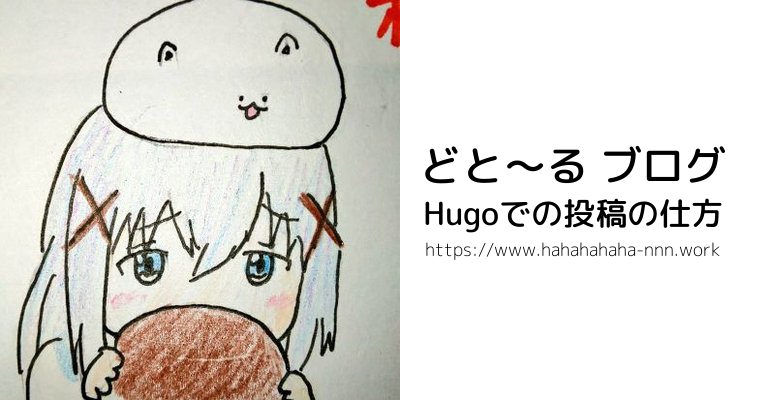
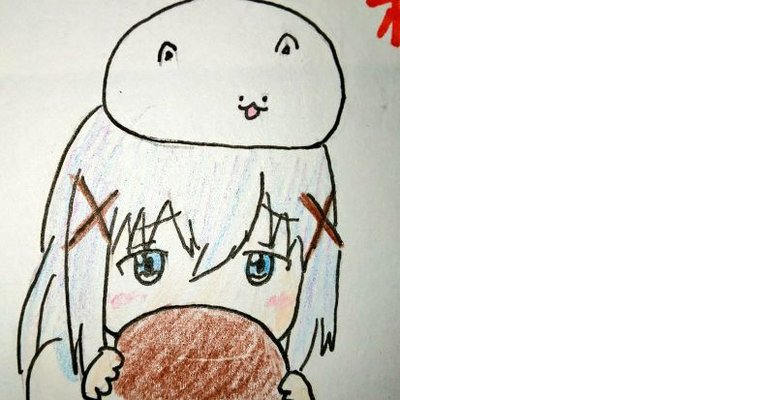
#32 一応、meta画像生成できた。あとは、記事文中へ記載。

Changed region(s): [[0.5419, 0.36, 0.9634, 0.66]]

diff --git a/python/make-card-pic.py b/python/make-card-pic.py
@@ -7,60 +7,99 @@
 # http://kamiya.tech/blog/draw-font/
 # PIL（Python Imaging Library）を使って画像ファイルを作成する。(Qiita)
 # https://qiita.com/suto3/items/5181b4a3b9ebc206f579
+# 同一要素の削除
+# https://ja.stackoverflow.com/questions/21070/Pythonで1次元のリストを比較し-同一の要素の削除について
+# Pythonでの文字列抽出
+# https://note.nkmk.me/python-str-extract/
 
 # Author : Hideto Niwa
 ##############################################################
 
 from PIL import Image, ImageDraw, ImageFont
 import glob
+import re
 
 height = 400
 horizontal = 764
 
-#記事タイトル取得
+ignore_list = {"./content\\privacy.md", "./content\\terms.md","./content\\authors\\niwa\\_index.md","./content\\home\\about.md","./content\\home\\index.md","./content\\home\\posts.md","./content\\home\\skills.md","./content\\post\\_index.md","./content\\publication\\_index.md","./content\\talk\\_index.md"}
+
+# 記事タイトル取得
+
 def get_title(file_path):
-    print("Open file...",file_path)
-    
-    f = open(file_path, 'r',encoding="utf-8") #File Open（文字コード指定）
+    print("Open file...", file_path)
+
+    f = open(file_path, 'r', encoding="utf-8")  # File Open（文字コード指定）
     datalist = f.readlines()
-    text=datalist[3] #自分の環境では3行目にtitleが存在するため
-    title=text.split('"')
+    text = datalist[3]  # 自分の環境では3行目にtitleが存在するため
+    title = text.split('"')
     print(title)
     return title[1]
 
-#ディレクトリ取得
+# ディレクトリ取得
 def get_dir():
-    path='./content/**/*.md'
+    path = './content/**/*.md'
     file_list = glob.glob(path, recursive=True)
+    file_list = list(filter(lambda x: x not in ignore_list, file_list))
     print(file_list)
     return file_list
 
-#文字未入れ状態の画像作成
-def make_bace_image(logo_path,img_path):
-    tmp = Image.new('RGB', (horizontal, height), (0xFF, 0xFF, 0xFF)) # dummy for get text_size
+# 文字未入れ状態の画像作成
+def make_bace_image(logo_path, img_path):
+    tmp = Image.new('RGB', (horizontal, height),
+                    (0xFF, 0xFF, 0xFF))  # dummy for get text_size
     logo = Image.open(logo_path)
 
-    save_img=tmp.copy()
+    save_img = tmp.copy()
     save_img.paste(logo)
     save_img.save(img_path)
 
-#文字入れ部分
-def make_image(font_path, img_path,text,x=0.0 ,y=0.0, font_size=32, font_color="black"):
+# 文字入れ部分
+def make_image(font_path, img_path, text, x=0.0, y=0.0, font_size=32, font_color="black"):
     font = ImageFont.truetype(font_path, font_size)
-    img=Image.open(img_path)
-    
-    img_d = ImageDraw.Draw(img)
-    text_size = img_d.textsize(text, font) #テキストサイズの取得
+    img = Image.open(img_path)
 
-    img_d.text((x-(text_size[0]/2),y-(text_size[1]/2)), text, fill=font_color, font=font)
+    img_d = ImageDraw.Draw(img)
+    text_size = img_d.textsize(text, font)  # テキストサイズの取得
+
+    img_d.text((x-(text_size[0]/2), y-(text_size[1]/2)),
+               text, fill=font_color, font=font)
     img.save(img_path)
 
-file_list=get_dir()
+# カードのdir情報を追加する部分
+def add_card_pic_data(file_path,card_path):
+    add_line=14 #追加する行数指定
+
+    file=open(file_path,'r',encoding="utf-8")
+    line=file.readline()
+    count=1
+
+    while line:
+        if count==add_line:
+            print(line)
+            card_path=card_path[8:]
+            add_text='featured_image: .'+card_path
+            print(add_text)
+        line=file.readline()
+        count+=1
+    #print(card_path)
+
+file_list = get_dir()
 
 for i in file_list:
-    print(i,"...")
-    title=get_title(i)
-    make_bace_image(".\static\img\logo.jpg", ".\python\card.png")
-#make_image(".\python\MPLUSRounded1c-Medium.ttf" ,".\python\card.png", "どと～る ブログ",horizontal*0.75, height*0.4,42)
-#make_image(".\python\MPLUSRounded1c-Medium.ttf" ,".\python\card.png", title,horizontal*0.75, height*0.53,32)
-#make_image(".\python\MPLUSRounded1c-Light.ttf" , ".\python\card.png", "https://www.hahahahaha-nnn.work",horizontal*0.75, height*0.62,18)
+    print(i, "...")
+    title = get_title(i)
+    save_pic_filename=i[9:]
+    save_pic_filename=save_pic_filename[:-3]
+    #print(save_pic_filename)
+
+    save_pic_dir='.\static\img\card'+save_pic_filename+'.png'
+
+    #print(save_pic_dir)
+
+    make_bace_image(".\static\img\logo.jpg", save_pic_dir)
+    make_image(".\python\MPLUSRounded1c-Medium.ttf" ,save_pic_dir, "どと～る ブログ",horizontal*0.75, height*0.4,42)
+    make_image(".\python\MPLUSRounded1c-Medium.ttf" ,save_pic_dir, title,horizontal*0.75, height*0.53,32)
+    make_image(".\python\MPLUSRounded1c-Light.ttf" , save_pic_dir, "https://www.hahahahaha-nnn.work",horizontal*0.75, height*0.62,18)
+    print(i)
+    add_card_pic_data(i,save_pic_dir)
